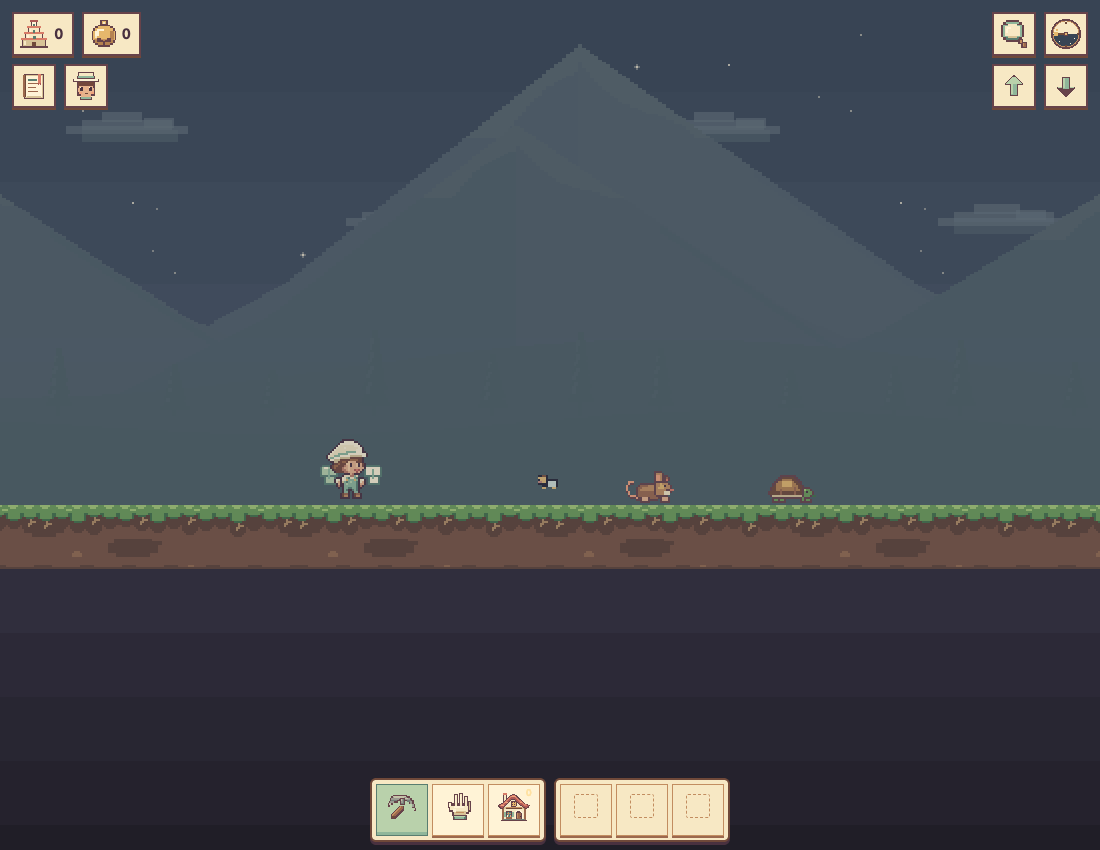
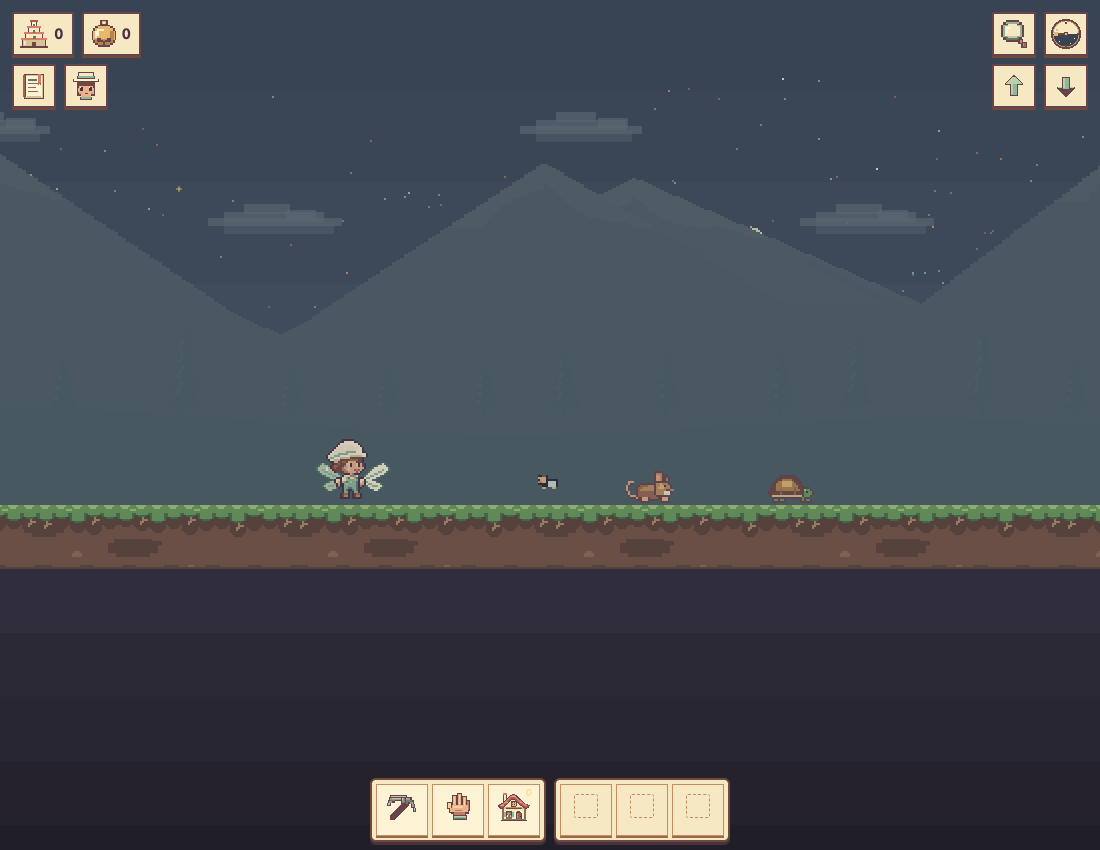
Broaden magnifier targeting and add Critterpedia and bloody fairy sacrifices

diff --git a/dist/buttonwood/fey-art.js b/dist/buttonwood/fey-art.js
@@ -1,11 +1,20 @@
 // ART-BIBLE §§3–4, 6, 9–10: tiny native wings, restrained magic and intact defeat poses.
 (()=>{'use strict';const A=ButtonwoodArt,P=A.palette,cache=new Map(),base=A.worker;
 A.worker=function(options={}){const key=JSON.stringify(options);if(cache.has(key))return cache.get(key);const c=document.createElement('canvas');c.width=40;c.height=32;const g=c.getContext('2d'),d=options.dir<0?-1:1;if(d<0){g.translate(36,0);g.scale(-1,1)}const r=(x,y,w,h,k)=>{g.fillStyle=P[k];g.fillRect(x,y,w,h)},lift=(options.frame||0)%3===1?1:0;
-for(const [x,k]of [[3,'mintLight'],[25,'creamLight']]){r(x+1,14-lift,7,1,'mintShade');r(x,15-lift,9,5,'mintShade');r(x+1,15-lift,7,4,k);r(x+2,20-lift,6,4,'mintShade');r(x+3,20-lift,4,3,k);r(x+4,16-lift,1,5,'mint');r(x+2,15-lift,2,1,'creamLight')}
+// Four tapered lobes join at the shoulder blades; veins run toward the root.
+for(const [side,k]of [[-1,'mintLight'],[1,'creamLight']]){const root=side<0?14:24,px=(u)=>root+side*u;
+for(const [y,lo,hi]of [[13,9,11],[14,7,12],[15,5,13],[16,4,13],[17,3,12],[18,2,11],[19,1,9],[20,0,7],[21,0,5],[22,0,7],[23,1,9],[24,2,10],[25,3,9],[26,5,8]])for(let u=lo;u<=hi;u++)r(px(u),y,1,1,u===lo||u===hi?'mintShade':k);
+for(let u=1;u<11;u++)r(px(u),21-Math.floor(u*.55),1,1,'mint');for(let u=1;u<8;u++)r(px(u),22+Math.floor(u*.4),1,1,'mint');r(px(0),21,1,3,'mintShade');r(px(8),15,1,2,'creamLight')}
+
 g.setTransform(1,0,0,1,0,0);g.drawImage(base(options),0,0);cache.set(key,c);return c};
 A.workerIcon=()=>A.fairyIcon();
 A.liquidColors.taintedWater=[P.deepLight,P.coralLight,P.deepShade];
 A.taintedBucketIcon=()=>{if(cache.has('bucket'))return cache.get('bucket');const c=document.createElement('canvas');c.width=c.height=32;const g=c.getContext('2d'),r=(x,y,w,h,k)=>{g.fillStyle=P[k];g.fillRect(x,y,w,h)};r(7,4,18,2,'outline');r(5,6,2,13,'outline');r(25,6,2,13,'outline');r(4,13,24,3,'ink');r(7,16,18,13,'outline');r(8,16,16,11,'stoneLight');r(9,16,14,5,'deepLight');r(10,16,5,1,'coralLight');r(12,8,1,5,'gold');r(10,10,5,1,'creamLight');cache.set('bucket',c);return c};
 A.paintFeySpark=function(g,x,y,frame){const points=[[0,-26],[18,-15],[-17,-10]];for(let i=0;i<points.length;i++){const p=points[(i+frame)%3],n=(frame+i)%4;g.fillStyle=P[n<2?'creamLight':'gold'];g.fillRect(Math.round(x+p[0]),Math.round(y+p[1]-n),1,1);if(n===1){g.fillRect(Math.round(x+p[0]-1),Math.round(y+p[1]),3,1);g.fillRect(Math.round(x+p[0]),Math.round(y+p[1]-1),1,3)}}};
-A.paintFairyDefeat=function(g,method,frame){const r=(x,y,w,h,k)=>{g.fillStyle=P[k];g.fillRect(x,y,w,h)};const x=method==='stab'?7+Math.min(3,frame)*2:4+frame*3,y=method==='stab'?-16:-24+frame*3;r(x,y,7,2,'stoneLight');r(x+1,y+2,5,1,'stoneShade');r(x+7,y-1,1,4,'goldShade');r(x+8,y,4,2,'woodShade');if(frame===2){r(3,-18,1,5,'creamLight');r(1,-16,5,1,'creamLight');r(-5,-12,2,2,'gold')}};
+A.paintFairyDefeat=function(g,method,frame){const r=(x,y,w,h,k)=>{g.fillStyle=P[k];g.fillRect(x,y,w,h)},hit=frame>=2;
+const x=method==='stab'?(hit?-1:12-frame*5):12-frame*6,y=method==='stab'?-10:-13;r(x,y,10,2,'stoneLight');r(x,y+2,9,1,'stoneShade');r(x+10,y-1,2,5,'goldShade');r(x+12,y,5,2,'woodShade');
+if(hit){r(method==='stab'?0:-2,method==='stab'?-10:-13,5,3,'bloodShade');r(1,-8,3,7,'blood');for(let i=0;i<7;i++){const dx=(i-3)*(frame+2),dy=(method==='slice'?-14:-10)-Math.abs(i-3)*2+frame;r(dx,dy,3,2,'blood');r(dx+1,dy,1,1,'bloodLight')}}};
+A.paintFairyBody=function(g,d,age){const frame=Math.min(3,Math.floor(age/150));if(age<300){g.drawImage(d.sprite,-18,-31);A.paintFairyDefeat(g,d.method,frame);return}
+// Physics may rotate the falling body; every source pixel keeps its native size.
+const fall=Math.min(1,(age-300)/500);if(d.method==='slice'){g.save();g.translate(-fall*19,-18+fall*6);g.rotate(-fall*1.1);g.drawImage(d.sprite,0,0,40,18,-18,-13,40,18);g.restore();g.save();g.translate(0,-fall*8);g.rotate(fall*1.5);g.drawImage(d.sprite,0,18,40,14,-18,-13,40,14);g.fillStyle=P.blood;g.fillRect(-5,-13,8,3);g.restore()}else{g.save();g.translate(0,-fall*8);g.rotate(fall*1.5);g.drawImage(d.sprite,-18,-31);g.fillStyle=P.bloodShade;g.fillRect(-3,-12,7,4);g.fillStyle=P.blood;g.fillRect(-1,-9,4,8);g.restore()}if(age<600)A.paintFairyDefeat(g,d.method,3)};
 })();

diff --git a/tower-of-babel/buttonwood/fey-art.js b/tower-of-babel/buttonwood/fey-art.js
@@ -1,11 +1,20 @@
 // ART-BIBLE §§3–4, 6, 9–10: tiny native wings, restrained magic and intact defeat poses.
 (()=>{'use strict';const A=ButtonwoodArt,P=A.palette,cache=new Map(),base=A.worker;
 A.worker=function(options={}){const key=JSON.stringify(options);if(cache.has(key))return cache.get(key);const c=document.createElement('canvas');c.width=40;c.height=32;const g=c.getContext('2d'),d=options.dir<0?-1:1;if(d<0){g.translate(36,0);g.scale(-1,1)}const r=(x,y,w,h,k)=>{g.fillStyle=P[k];g.fillRect(x,y,w,h)},lift=(options.frame||0)%3===1?1:0;
-for(const [x,k]of [[3,'mintLight'],[25,'creamLight']]){r(x+1,14-lift,7,1,'mintShade');r(x,15-lift,9,5,'mintShade');r(x+1,15-lift,7,4,k);r(x+2,20-lift,6,4,'mintShade');r(x+3,20-lift,4,3,k);r(x+4,16-lift,1,5,'mint');r(x+2,15-lift,2,1,'creamLight')}
+// Four tapered lobes join at the shoulder blades; veins run toward the root.
+for(const [side,k]of [[-1,'mintLight'],[1,'creamLight']]){const root=side<0?14:24,px=(u)=>root+side*u;
+for(const [y,lo,hi]of [[13,9,11],[14,7,12],[15,5,13],[16,4,13],[17,3,12],[18,2,11],[19,1,9],[20,0,7],[21,0,5],[22,0,7],[23,1,9],[24,2,10],[25,3,9],[26,5,8]])for(let u=lo;u<=hi;u++)r(px(u),y,1,1,u===lo||u===hi?'mintShade':k);
+for(let u=1;u<11;u++)r(px(u),21-Math.floor(u*.55),1,1,'mint');for(let u=1;u<8;u++)r(px(u),22+Math.floor(u*.4),1,1,'mint');r(px(0),21,1,3,'mintShade');r(px(8),15,1,2,'creamLight')}
+
 g.setTransform(1,0,0,1,0,0);g.drawImage(base(options),0,0);cache.set(key,c);return c};
 A.workerIcon=()=>A.fairyIcon();
 A.liquidColors.taintedWater=[P.deepLight,P.coralLight,P.deepShade];
 A.taintedBucketIcon=()=>{if(cache.has('bucket'))return cache.get('bucket');const c=document.createElement('canvas');c.width=c.height=32;const g=c.getContext('2d'),r=(x,y,w,h,k)=>{g.fillStyle=P[k];g.fillRect(x,y,w,h)};r(7,4,18,2,'outline');r(5,6,2,13,'outline');r(25,6,2,13,'outline');r(4,13,24,3,'ink');r(7,16,18,13,'outline');r(8,16,16,11,'stoneLight');r(9,16,14,5,'deepLight');r(10,16,5,1,'coralLight');r(12,8,1,5,'gold');r(10,10,5,1,'creamLight');cache.set('bucket',c);return c};
 A.paintFeySpark=function(g,x,y,frame){const points=[[0,-26],[18,-15],[-17,-10]];for(let i=0;i<points.length;i++){const p=points[(i+frame)%3],n=(frame+i)%4;g.fillStyle=P[n<2?'creamLight':'gold'];g.fillRect(Math.round(x+p[0]),Math.round(y+p[1]-n),1,1);if(n===1){g.fillRect(Math.round(x+p[0]-1),Math.round(y+p[1]),3,1);g.fillRect(Math.round(x+p[0]),Math.round(y+p[1]-1),1,3)}}};
-A.paintFairyDefeat=function(g,method,frame){const r=(x,y,w,h,k)=>{g.fillStyle=P[k];g.fillRect(x,y,w,h)};const x=method==='stab'?7+Math.min(3,frame)*2:4+frame*3,y=method==='stab'?-16:-24+frame*3;r(x,y,7,2,'stoneLight');r(x+1,y+2,5,1,'stoneShade');r(x+7,y-1,1,4,'goldShade');r(x+8,y,4,2,'woodShade');if(frame===2){r(3,-18,1,5,'creamLight');r(1,-16,5,1,'creamLight');r(-5,-12,2,2,'gold')}};
+A.paintFairyDefeat=function(g,method,frame){const r=(x,y,w,h,k)=>{g.fillStyle=P[k];g.fillRect(x,y,w,h)},hit=frame>=2;
+const x=method==='stab'?(hit?-1:12-frame*5):12-frame*6,y=method==='stab'?-10:-13;r(x,y,10,2,'stoneLight');r(x,y+2,9,1,'stoneShade');r(x+10,y-1,2,5,'goldShade');r(x+12,y,5,2,'woodShade');
+if(hit){r(method==='stab'?0:-2,method==='stab'?-10:-13,5,3,'bloodShade');r(1,-8,3,7,'blood');for(let i=0;i<7;i++){const dx=(i-3)*(frame+2),dy=(method==='slice'?-14:-10)-Math.abs(i-3)*2+frame;r(dx,dy,3,2,'blood');r(dx+1,dy,1,1,'bloodLight')}}};
+A.paintFairyBody=function(g,d,age){const frame=Math.min(3,Math.floor(age/150));if(age<300){g.drawImage(d.sprite,-18,-31);A.paintFairyDefeat(g,d.method,frame);return}
+// Physics may rotate the falling body; every source pixel keeps its native size.
+const fall=Math.min(1,(age-300)/500);if(d.method==='slice'){g.save();g.translate(-fall*19,-18+fall*6);g.rotate(-fall*1.1);g.drawImage(d.sprite,0,0,40,18,-18,-13,40,18);g.restore();g.save();g.translate(0,-fall*8);g.rotate(fall*1.5);g.drawImage(d.sprite,0,18,40,14,-18,-13,40,14);g.fillStyle=P.blood;g.fillRect(-5,-13,8,3);g.restore()}else{g.save();g.translate(0,-fall*8);g.rotate(fall*1.5);g.drawImage(d.sprite,-18,-31);g.fillStyle=P.bloodShade;g.fillRect(-3,-12,7,4);g.fillStyle=P.blood;g.fillRect(-1,-9,4,8);g.restore()}if(age<600)A.paintFairyDefeat(g,d.method,3)};
 })();

diff --git a/dist/buttonwood/palette.js b/dist/buttonwood/palette.js
@@ -3,6 +3,7 @@
   'use strict';
   const A = window.ButtonwoodArt = window.ButtonwoodArt || {};
   A.palette = Object.freeze({
+    blood: '#b52e43', bloodShade: '#711c35', bloodLight: '#e34b53',
     ink: '#49313f', outline: '#67434a', buriedShade: '#0b0709',
     cream: '#f7e8c4', creamShade: '#d8c397', creamLight: '#fff3d6',
     mint: '#8fb69a', mintLight: '#b9d1ab', mintShade: '#597d70',

diff --git a/tower-of-babel/buttonwood/palette.js b/tower-of-babel/buttonwood/palette.js
@@ -3,6 +3,7 @@
   'use strict';
   const A = window.ButtonwoodArt = window.ButtonwoodArt || {};
   A.palette = Object.freeze({
+    blood: '#b52e43', bloodShade: '#711c35', bloodLight: '#e34b53',
     ink: '#49313f', outline: '#67434a', buriedShade: '#0b0709',
     cream: '#f7e8c4', creamShade: '#d8c397', creamLight: '#fff3d6',
     mint: '#8fb69a', mintLight: '#b9d1ab', mintShade: '#597d70',

diff --git a/dist/buttonwood/ART-BIBLE.md b/dist/buttonwood/ART-BIBLE.md
@@ -1,6 +1,6 @@
 # Buttonwood art bible
 
-**Critz Tower Defense · Visual direction v1.6 · October 10, 2026**
+**Critz Tower Defense · Visual direction v1.7 · October 10, 2026**
 
 ## Start here
 
@@ -1142,12 +1142,15 @@ Workers retain their native 40 × 32 adult silhouette, cream hat, mint clothing,
 and shared anchor, with little mint/cream wings. Native gallery and gameplay use
 these fairy models. The full-moon merchant remains a distinct wand-bearing fairy.
 
-Player knife choices are Stab and Slice. Their implemented effects are stylized:
-brief intact poses, small native knife/contact glints, an intact fading sprite,
-and a few coral blood pixels that dry in three seconds. No graphic wounds,
-dismemberment, or repeated stabbing are depicted. Both player actions release
-pocketed gold and create no ghost. Environmental deaths retain existing ghosts
-and never spill fairy blood or contaminate water.
+Player knife choices are Stab and Slice. The October 11 direction deliberately
+contrasts the gentle settlement with an explicit, bloody fairy sacrifice. Stab
+shows blade contact, a bleeding torso and a falling body. Slice separates the
+head from the falling torso. Hold the remains for 4.5 seconds before a two-second
+fade; timed blood sprays fall and spread into connected ground pools lasting
+12 seconds. Use the shared `blood`, `bloodShade`, and `bloodLight` ramp, distinct
+from coral roofs. Keep native pixels, uniform camera scale, and attached wings.
+Both player actions release pocketed Bells and create no ghost. Environmental
+deaths retain existing ghosts and never spill fairy blood or contaminate water.
 
 Tainted Water uses the existing 16-unit liquid solver, purple/coral palette ramps,
 and a separately authored 32px bucket icon. Blood touching water taints it;
@@ -1290,3 +1293,16 @@ fixed, and obsidian withstands heat. Destroyed blocks grant no reward.
 The event and projectiles persist in saves, never reroll on reload, freeze with
 pause and clear at dawn. Particle and projectile budgets remain bounded.
 [Visual and behavior review](qa/moonfire/README.md).
+
+## Generous magnifier and fairy sacrifice — October 11, 2026
+
+Apply §§3–4 (native pixels and dedicated blood ramp), §6 (shoulder-attached
+four-lobed wings), §9 (nonmodal Critterpedia beside the magnifier trigger), and
+§10 (action-specific contact, falling remains, sprays and settling pools).
+The lens acquires living subjects across 90% of its circular glass area, measured
+in the displayed magnification. Test nearest samples first and prefer living
+subjects over background terrain. A centered subject wins over other subjects.
+Click or tap opens that entry in Critterpedia, including fairy Workers and the
+full-moon merchant, without mining, petting, or opening helper controls.
+Review evidence: [fairy poses](qa/fey/defeat-poses.png),
+[blood pool](qa/fey/blood-pool.png), and [lens](qa/inspector-crew/lens.png).

diff --git a/tower-of-babel/buttonwood/ART-BIBLE.md b/tower-of-babel/buttonwood/ART-BIBLE.md
@@ -1,6 +1,6 @@
 # Buttonwood art bible
 
-**Critz Tower Defense · Visual direction v1.6 · October 10, 2026**
+**Critz Tower Defense · Visual direction v1.7 · October 10, 2026**
 
 ## Start here
 
@@ -1142,12 +1142,15 @@ Workers retain their native 40 × 32 adult silhouette, cream hat, mint clothing,
 and shared anchor, with little mint/cream wings. Native gallery and gameplay use
 these fairy models. The full-moon merchant remains a distinct wand-bearing fairy.
 
-Player knife choices are Stab and Slice. Their implemented effects are stylized:
-brief intact poses, small native knife/contact glints, an intact fading sprite,
-and a few coral blood pixels that dry in three seconds. No graphic wounds,
-dismemberment, or repeated stabbing are depicted. Both player actions release
-pocketed gold and create no ghost. Environmental deaths retain existing ghosts
-and never spill fairy blood or contaminate water.
+Player knife choices are Stab and Slice. The October 11 direction deliberately
+contrasts the gentle settlement with an explicit, bloody fairy sacrifice. Stab
+shows blade contact, a bleeding torso and a falling body. Slice separates the
+head from the falling torso. Hold the remains for 4.5 seconds before a two-second
+fade; timed blood sprays fall and spread into connected ground pools lasting
+12 seconds. Use the shared `blood`, `bloodShade`, and `bloodLight` ramp, distinct
+from coral roofs. Keep native pixels, uniform camera scale, and attached wings.
+Both player actions release pocketed Bells and create no ghost. Environmental
+deaths retain existing ghosts and never spill fairy blood or contaminate water.
 
 Tainted Water uses the existing 16-unit liquid solver, purple/coral palette ramps,
 and a separately authored 32px bucket icon. Blood touching water taints it;
@@ -1290,3 +1293,16 @@ fixed, and obsidian withstands heat. Destroyed blocks grant no reward.
 The event and projectiles persist in saves, never reroll on reload, freeze with
 pause and clear at dawn. Particle and projectile budgets remain bounded.
 [Visual and behavior review](qa/moonfire/README.md).
+
+## Generous magnifier and fairy sacrifice — October 11, 2026
+
+Apply §§3–4 (native pixels and dedicated blood ramp), §6 (shoulder-attached
+four-lobed wings), §9 (nonmodal Critterpedia beside the magnifier trigger), and
+§10 (action-specific contact, falling remains, sprays and settling pools).
+The lens acquires living subjects across 90% of its circular glass area, measured
+in the displayed magnification. Test nearest samples first and prefer living
+subjects over background terrain. A centered subject wins over other subjects.
+Click or tap opens that entry in Critterpedia, including fairy Workers and the
+full-moon merchant, without mining, petting, or opening helper controls.
+Review evidence: [fairy poses](qa/fey/defeat-poses.png),
+[blood pool](qa/fey/blood-pool.png), and [lens](qa/inspector-crew/lens.png).

diff --git a/dist/buttonwood/ART-GUIDE.md b/dist/buttonwood/ART-GUIDE.md
@@ -683,7 +683,7 @@ Window capture makes lens pointer actions read-only before legacy world handlers
 `SkyAudio.rhythm` and `inspectCue` share the MIDI origin; description changes are
 allowed only on even quarter-beat indices (one half note). Missed audio boundaries
 wait for the next half note; silent play uses the same 72 BPM active-play grid.
-A target outside the pointer hit area immediately loses its bubble. Pause freezes timing and
+A target outside the lens acquisition area immediately loses its bubble. Pause freezes timing and
 hides the lens; Effects mute silences the cue. No inspection state enters saves.
 Review: bible §§3–4, 6, 9–10 and [v79 QA](qa/inspector-crew/README.md).
 
@@ -758,3 +758,22 @@ normal routing, collision, material costs and nail placement still apply.
 A successful Fey Tower placement uses the approved Use animation for 650ms;
 no decorative building animation invents a resource or placed block.
 Review: bible §§3–4, 8–10 and [demo QA](qa/moonfire-demo/README.md).
+
+## Lens acquisition, Critterpedia, and sacrifice — October 11, 2026
+
+`inspectionSubjectV79` shares the point tests used by `inspectionV79`.
+`inspectLensTargetV79` scans ordered 4px lens samples inside radius
+`68 * sqrt(.9)`, divided by the world lens magnification of two. Centered
+subjects win; surrounding subjects outrank backdrop terrain. Sky uses its 1×
+source radius. The same picker runs on pointer release, with an 8px drag threshold
+and existing touch-pinch consumption. The nonmodal `critterpediaV79` displays
+the selected entry beside the magnifying-glass toolbar control, reflows on
+resize, and closes on Escape or pause. Inspection never invokes pet/mining actions.
+
+Four tapered wing lobes join the shoulders inside the existing 40×32 Worker
+canvas; wings have fixed veins and no independent animation. `paintFairyBody`
+uses native sprite crops, falling rotation and distinct Stab/Slice wounds.
+Forty-eight delayed blood particles start at contact, obey gravity and ground
+collision, contaminate real water, and form 12-second transient pools. A corpse
+holds 4.5 seconds and fades over two seconds. Blood adds no liquid volume on dry
+soil. The named blood ramp is reviewed under ART-BIBLE §§3–4, 6, 9–10.

diff --git a/tower-of-babel/buttonwood/ART-GUIDE.md b/tower-of-babel/buttonwood/ART-GUIDE.md
@@ -683,7 +683,7 @@ Window capture makes lens pointer actions read-only before legacy world handlers
 `SkyAudio.rhythm` and `inspectCue` share the MIDI origin; description changes are
 allowed only on even quarter-beat indices (one half note). Missed audio boundaries
 wait for the next half note; silent play uses the same 72 BPM active-play grid.
-A target outside the pointer hit area immediately loses its bubble. Pause freezes timing and
+A target outside the lens acquisition area immediately loses its bubble. Pause freezes timing and
 hides the lens; Effects mute silences the cue. No inspection state enters saves.
 Review: bible §§3–4, 6, 9–10 and [v79 QA](qa/inspector-crew/README.md).
 
@@ -758,3 +758,22 @@ normal routing, collision, material costs and nail placement still apply.
 A successful Fey Tower placement uses the approved Use animation for 650ms;
 no decorative building animation invents a resource or placed block.
 Review: bible §§3–4, 8–10 and [demo QA](qa/moonfire-demo/README.md).
+
+## Lens acquisition, Critterpedia, and sacrifice — October 11, 2026
+
+`inspectionSubjectV79` shares the point tests used by `inspectionV79`.
+`inspectLensTargetV79` scans ordered 4px lens samples inside radius
+`68 * sqrt(.9)`, divided by the world lens magnification of two. Centered
+subjects win; surrounding subjects outrank backdrop terrain. Sky uses its 1×
+source radius. The same picker runs on pointer release, with an 8px drag threshold
+and existing touch-pinch consumption. The nonmodal `critterpediaV79` displays
+the selected entry beside the magnifying-glass toolbar control, reflows on
+resize, and closes on Escape or pause. Inspection never invokes pet/mining actions.
+
+Four tapered wing lobes join the shoulders inside the existing 40×32 Worker
+canvas; wings have fixed veins and no independent animation. `paintFairyBody`
+uses native sprite crops, falling rotation and distinct Stab/Slice wounds.
+Forty-eight delayed blood particles start at contact, obey gravity and ground
+collision, contaminate real water, and form 12-second transient pools. A corpse
+holds 4.5 seconds and fades over two seconds. Blood adds no liquid volume on dry
+soil. The named blood ramp is reviewed under ART-BIBLE §§3–4, 6, 9–10.

diff --git a/dist/buttonwood/qa/fey/REVISION-2026-10-11.md b/dist/buttonwood/qa/fey/REVISION-2026-10-11.md
@@ -1,0 +1,27 @@
+# October 11 fairy and magnifier review
+
+Direction: ART-BIBLE §§3–4 (native pixels, named blood ramp), §6 (attached
+four-lobed wings), §9 (attached, accessible Critterpedia), §10 (clear action
+contact, falling remains, animated sprays and pools). Compared with the approved
+Buttonwood reference, native Worker gallery, and former defeat strip.
+
+Reviewed new poses at native size and in gameplay. The 40×32 Worker anchor and
+collision envelope remain intact. Stab retains a bleeding body; Slice separates
+the head. Forty-eight particles emit in four timed bursts, settle into irregular
+pools and disappear after twelve active-play seconds. Dry ground creates no water;
+water contact changes liquid kind while conserving volume. Environmental deaths
+still produce ghosts without blood or contamination. Pause freezes effects.
+
+Critterpedia is nonmodal and attached to the magnifier trigger. It opens the
+selected entry on click/tap and supports fairy Workers and the moon fairy.
+Lens samples cover 90% of the circular glass area. Closest samples win among
+subjects, with centered subjects first and terrain treated as backdrop.
+
+Checks: fey-browser, inspector-crew-browser, winter-inspection-browser,
+tainted-water. Inspector checks off-center targets at .5×/1×/2×/3× camera zoom,
+multiple subjects, moon fairy, click entry, mobile containment, and touch. Sky
+checks nearby stars, pinch zoom and pointer exit. Reviewed `defeat-poses.png`,
+`blood-pool.png`, `../inspector-crew/critterpedia.png`, and mobile entry screenshots.
+
+Effects are temporary and are not persisted through reloads. No save schema or
+ordinary/sample save separation changed.

diff --git a/tower-of-babel/buttonwood/qa/fey/REVISION-2026-10-11.md b/tower-of-babel/buttonwood/qa/fey/REVISION-2026-10-11.md
@@ -1,0 +1,27 @@
+# October 11 fairy and magnifier review
+
+Direction: ART-BIBLE §§3–4 (native pixels, named blood ramp), §6 (attached
+four-lobed wings), §9 (attached, accessible Critterpedia), §10 (clear action
+contact, falling remains, animated sprays and pools). Compared with the approved
+Buttonwood reference, native Worker gallery, and former defeat strip.
+
+Reviewed new poses at native size and in gameplay. The 40×32 Worker anchor and
+collision envelope remain intact. Stab retains a bleeding body; Slice separates
+the head. Forty-eight particles emit in four timed bursts, settle into irregular
+pools and disappear after twelve active-play seconds. Dry ground creates no water;
+water contact changes liquid kind while conserving volume. Environmental deaths
+still produce ghosts without blood or contamination. Pause freezes effects.
+
+Critterpedia is nonmodal and attached to the magnifier trigger. It opens the
+selected entry on click/tap and supports fairy Workers and the moon fairy.
+Lens samples cover 90% of the circular glass area. Closest samples win among
+subjects, with centered subjects first and terrain treated as backdrop.
+
+Checks: fey-browser, inspector-crew-browser, winter-inspection-browser,
+tainted-water. Inspector checks off-center targets at .5×/1×/2×/3× camera zoom,
+multiple subjects, moon fairy, click entry, mobile containment, and touch. Sky
+checks nearby stars, pinch zoom and pointer exit. Reviewed `defeat-poses.png`,
+`blood-pool.png`, `../inspector-crew/critterpedia.png`, and mobile entry screenshots.
+
+Effects are temporary and are not persisted through reloads. No save schema or
+ordinary/sample save separation changed.
